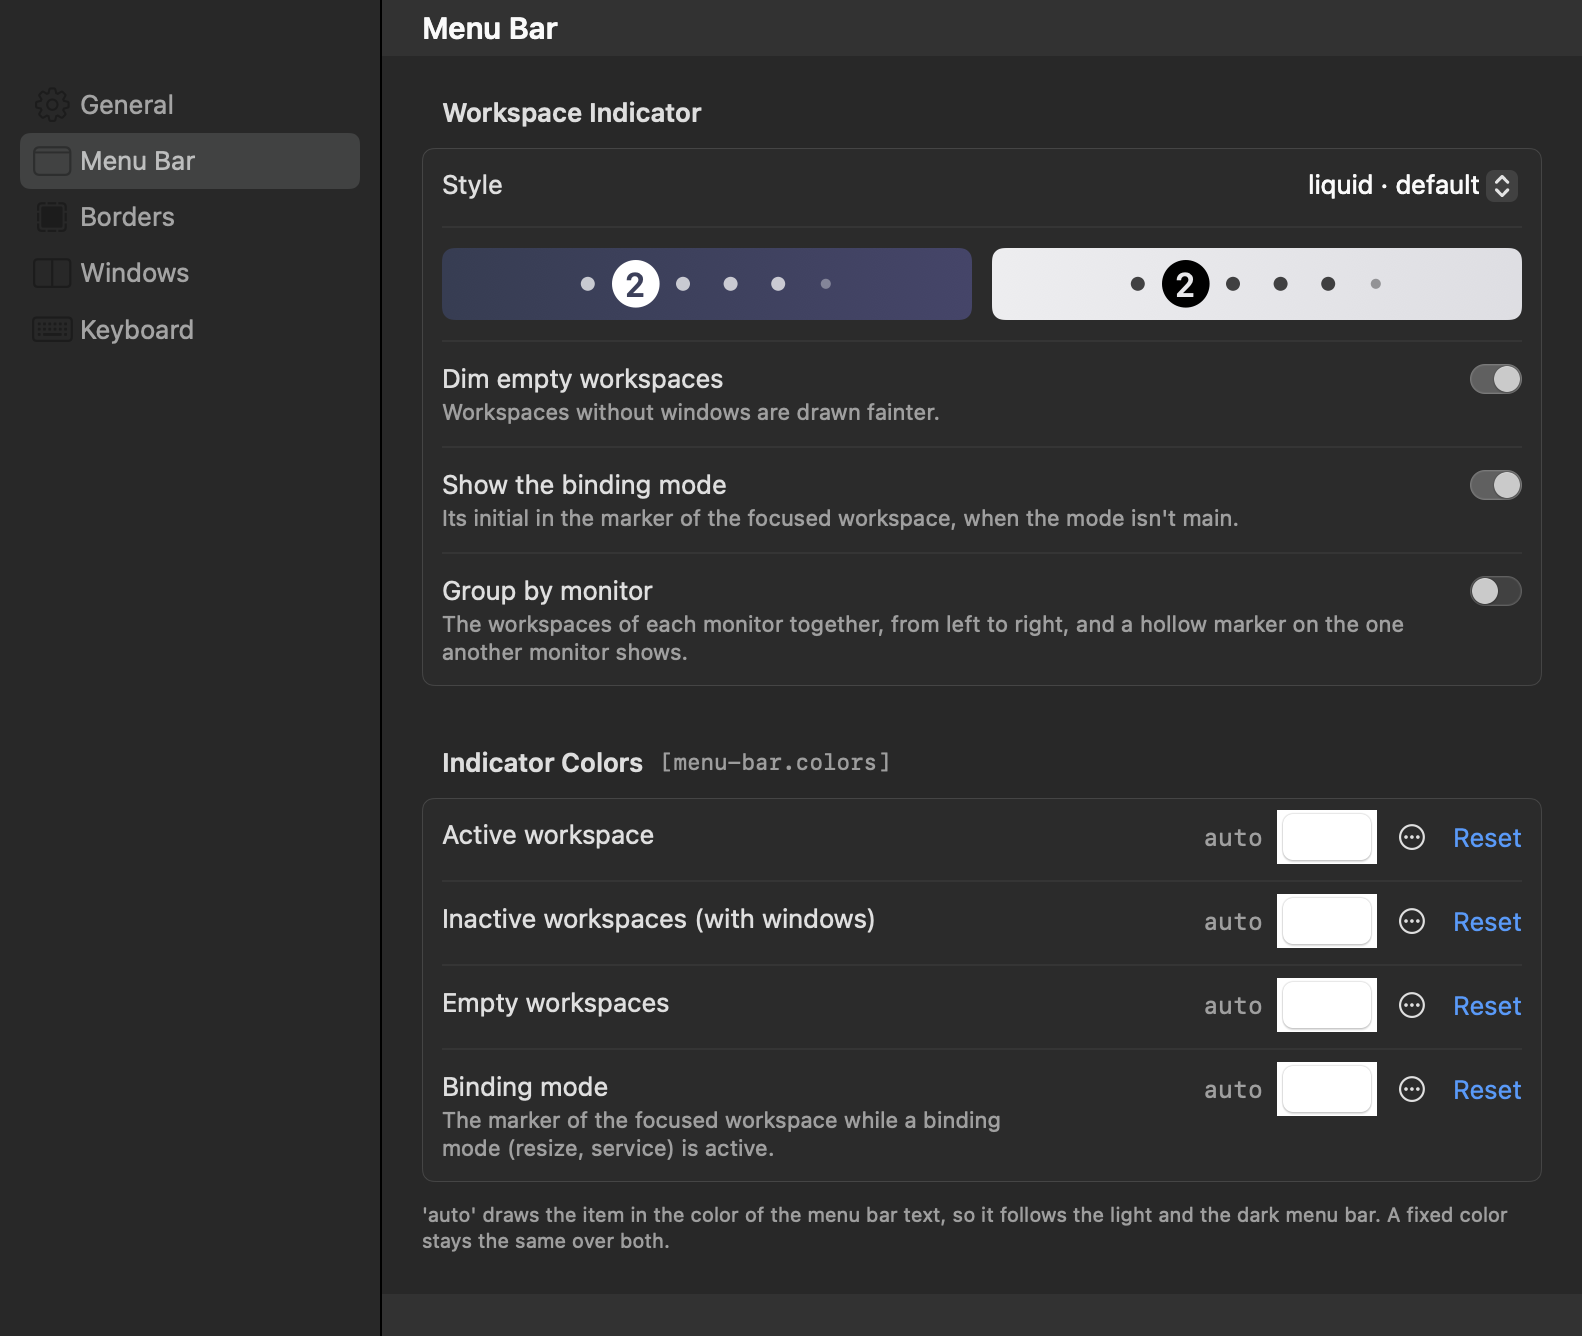
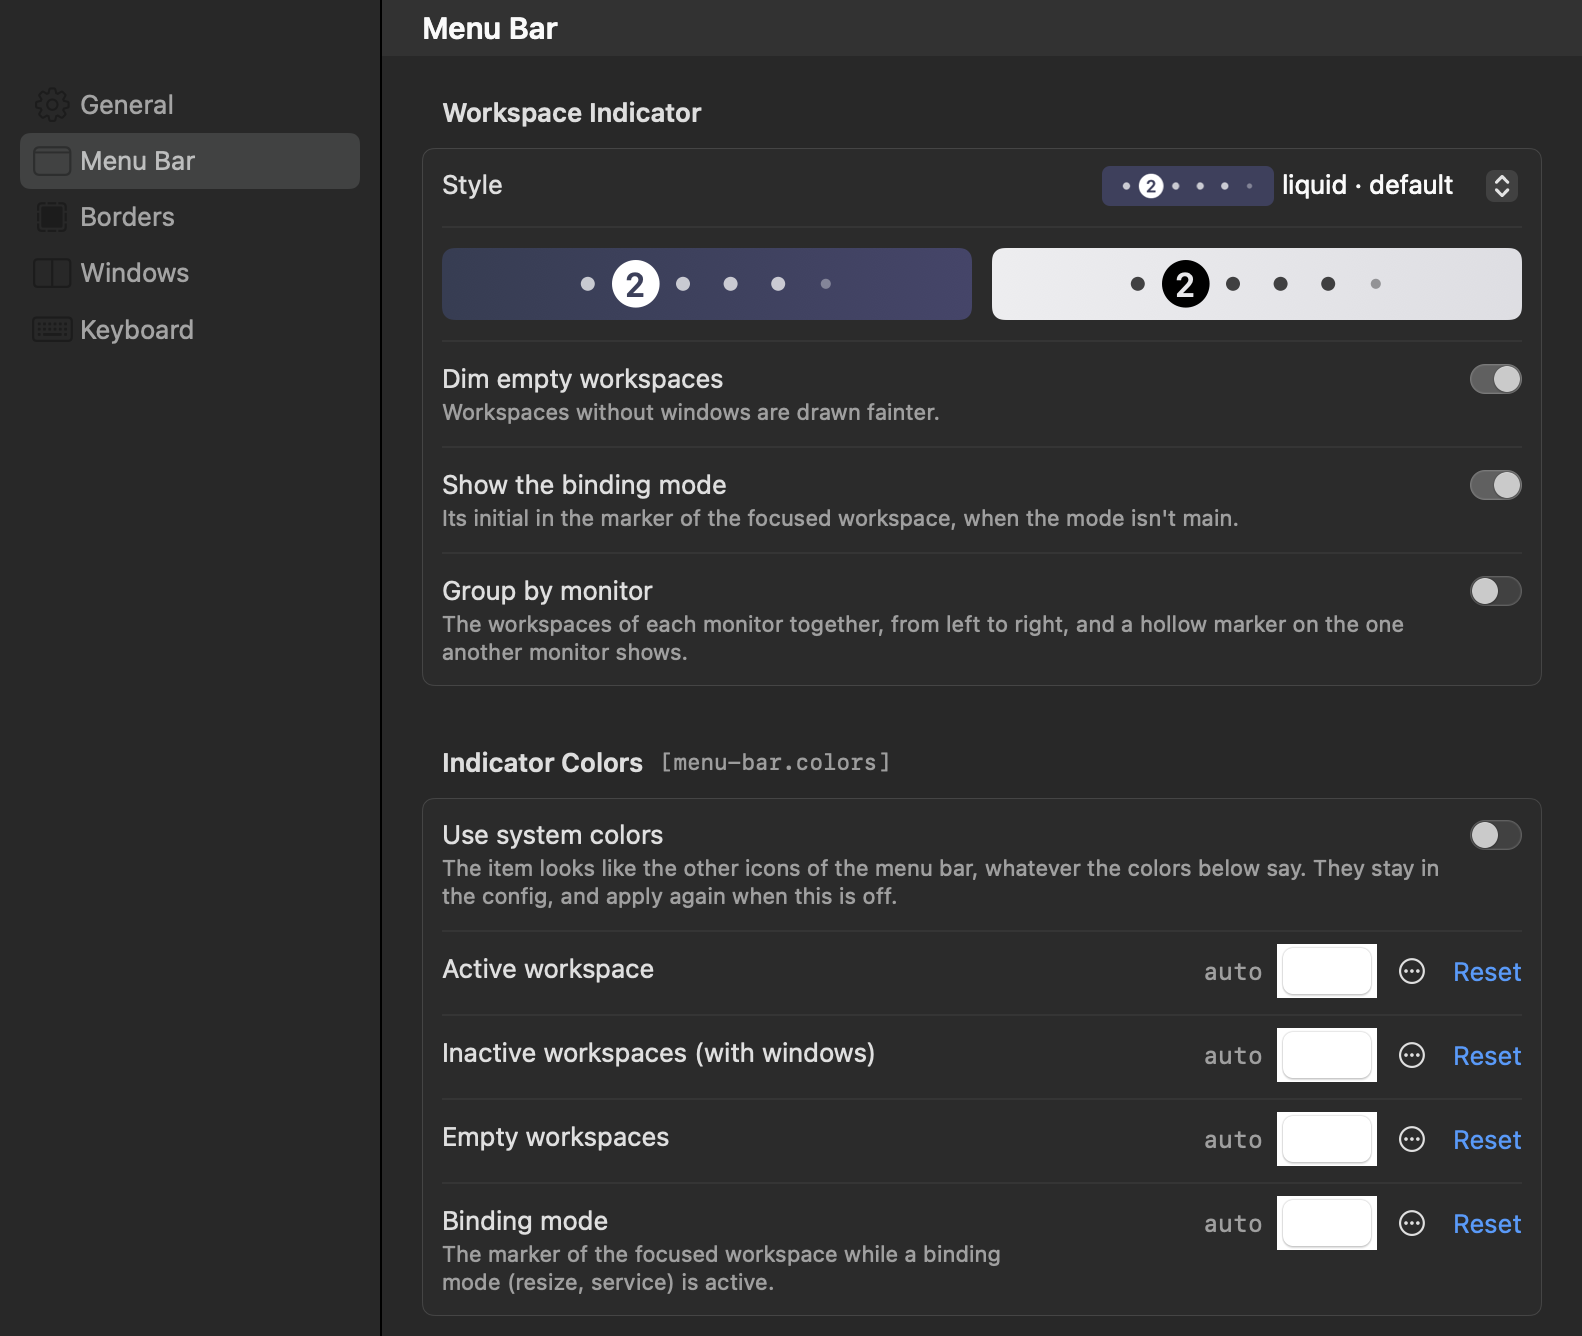
Theme pop-up with thumbnails, system colors for the item, and the modes on cmd-alt-shift
Settings > Menu Bar picks the style in a pop-up whose items show each theme as Inlay
draws it, over a small menu bar and with the colors and the options of the item, next
to its name. The closed button shows the chosen one the same way.

[menu-bar] system-colors = true (Use system colors in Settings) draws the item like the
other icons of the menu bar, whatever theme is in use: a template image in the color of
the menu bar text, also in a binding mode. [menu-bar.colors] is left as it is, so the
colors apply again when it is off; the color rows of Settings are disabled meanwhile.

The shipped config enters and leaves the service and resize modes with cmd-alt-shift-s
and cmd-alt-shift-r, so that cmd-alt-ctrl is for going to a workspace and swapping.

Changed region(s): [[0.2788, 0.5831, 0.9602, 0.982], [0.6814, 0.1228, 0.9292, 0.1534]]

diff --git a/Sources/AppBundle/settings/SettingsViews.swift b/Sources/AppBundle/settings/SettingsViews.swift
@@ -745,9 +745,61 @@ private func menuBarBackground(_ isDarkBar: Bool) -> LinearGradient {
     return LinearGradient(colors: colors, startPoint: .leading, endPoint: .trailing)
 }
 
-// MARK: - Appearance
+/// The style of the indicator: a pop-up button whose items show each theme as Inlay draws it, over a small menu bar,
+/// next to its name. The closed button shows the chosen one the same way. The thumbnails take the colors and the
+/// options of the item
+private struct MenuBarThemePopUp: NSViewRepresentable {
+    let theme: MenuBarTheme
+    let config: MenuBarConfig
+    let select: (MenuBarTheme) -> Void
 
-/// The look of the item and of the borders: the style of the workspace indicator, and every color on its own
+    func makeCoordinator() -> Coordinator { Coordinator() }
+
+    func makeNSView(context: Context) -> NSPopUpButton {
+        let button = NSPopUpButton(frame: .zero, pullsDown: false)
+        button.target = context.coordinator
+        button.action = #selector(Coordinator.picked(_:))
+        button.imagePosition = .imageLeading
+        button.setAccessibilityLabel(Strings.Settings.style)
+        return button
+    }
+
+    func updateNSView(_ button: NSPopUpButton, context: Context) {
+        context.coordinator.select = select
+        let isDarkBar = button.effectiveAppearance.bestMatch(from: [.darkAqua, .aqua]) == .darkAqua
+        // The thumbnails only depend on the rest of the item and on the appearance: made again when one changes
+        let thumbnails = Coordinator.Thumbnails(config: config.copy(\.theme, MenuBarConfig().theme), isDarkBar: isDarkBar)
+        if context.coordinator.thumbnails != thumbnails {
+            context.coordinator.thumbnails = thumbnails
+            button.removeAllItems()
+            for theme in MenuBarTheme.allCases {
+                let title = theme == MenuBarConfig().theme ? "\(theme.rawValue) · \(Strings.Settings.defaultValue)" : theme.rawValue
+                button.addItem(withTitle: title)
+                button.lastItem?.image = MenuBarSamples.thumbnail(config.copy(\.theme, theme), isDarkBar: isDarkBar)
+            }
+        }
+        button.selectItem(at: MenuBarTheme.allCases.firstIndex(of: theme) ?? 0)
+    }
+
+    @MainActor
+    final class Coordinator: NSObject {
+        struct Thumbnails: Equatable {
+            var config: MenuBarConfig
+            var isDarkBar: Bool
+        }
+
+        var select: ((MenuBarTheme) -> Void)?
+        var thumbnails: Thumbnails?
+
+        @objc func picked(_ sender: NSPopUpButton) {
+            guard let theme = MenuBarTheme.allCases.getOrNil(atIndex: sender.indexOfSelectedItem) else { return }
+            select?(theme)
+        }
+    }
+}
+
+// MARK: - Menu bar
+
 /// The menu bar item: its theme, its options and its colors
 struct MenuBarSettingsView: View {
     let model: SettingsModel
@@ -757,13 +809,8 @@ struct MenuBarSettingsView: View {
             ErrorBanner(model: model)
             Section {
                 SettingsRow(model: model, title: Strings.Settings.style, key: .menuBarTheme) {
-                    Picker("", selection: Binding(get: { model.menuBarTheme }, set: { model.setTheme($0) })) {
-                        ForEach(MenuBarTheme.allCases, id: \.self) { theme in
-                            Text(theme == MenuBarConfig().theme ? "\(theme.rawValue) · \(Strings.Settings.defaultValue)" : theme.rawValue).tag(theme)
-                        }
-                    }
-                    .labelsHidden()
-                    .fixedSize()
+                    MenuBarThemePopUp(theme: model.menuBarTheme, config: model.menuBarConfig) { model.setTheme($0) }
+                        .fixedSize()
                 }
                 // The item as Inlay draws it, with the colors below: over a dark and over a light menu bar
                 HStack(spacing: 10) {
@@ -802,10 +849,15 @@ struct MenuBarSettingsView: View {
                 }
             }
             Section {
-                ColorRow(model: model, title: Strings.Settings.activeWorkspaceColor, key: .menuBarFocused, allowsAuto: true)
-                ColorRow(model: model, title: Strings.Settings.inactiveWorkspaceColor, key: .menuBarOccupied, allowsAuto: true)
-                ColorRow(model: model, title: Strings.Settings.emptyWorkspaceColor, key: .menuBarEmpty, allowsAuto: true)
-                ColorRow(model: model, title: Strings.Settings.accent, detail: Strings.Settings.accentDetail, key: .menuBarAccent, allowsAuto: true)
+                ToggleRow(model: model, title: Strings.Settings.systemColors, detail: Strings.Settings.systemColorsDetail, key: .menuBarSystemColors)
+                // Overridden while the item takes the colors of the menu bar, but kept: they apply again when it's off
+                Group {
+                    ColorRow(model: model, title: Strings.Settings.activeWorkspaceColor, key: .menuBarFocused, allowsAuto: true)
+                    ColorRow(model: model, title: Strings.Settings.inactiveWorkspaceColor, key: .menuBarOccupied, allowsAuto: true)
+                    ColorRow(model: model, title: Strings.Settings.emptyWorkspaceColor, key: .menuBarEmpty, allowsAuto: true)
+                    ColorRow(model: model, title: Strings.Settings.accent, detail: Strings.Settings.accentDetail, key: .menuBarAccent, allowsAuto: true)
+                }
+                .disabled(model.bool(.menuBarSystemColors))
             } header: {
                 tableHeader(Strings.Settings.indicatorColors, SettingsKey.menuBarFocused)
             } footer: {

diff --git a/Sources/AppBundle/config/parseMenuBar.swift b/Sources/AppBundle/config/parseMenuBar.swift
@@ -7,6 +7,9 @@ struct MenuBarConfig: ConvenienceMutable, Equatable, Sendable {
     var dimEmptyWorkspaces: Bool = true
     var showMode: Bool = true
     var colors: MenuBarColors = MenuBarColors()
+    /// The item takes the colors of the other icons of the menu bar, whatever [menu-bar.colors] says: the colors stay
+    /// in the config, and they apply again when this is off
+    var systemColors: Bool = false
     /// The workspaces grouped by the monitor they are on, and a hollow marker on the one that another monitor shows
     var perMonitor: Bool = false
     /// [menu-bar.labels]. Workspace -> the name that the 'labels' theme shows in the focused workspace. Only that theme uses it
@@ -51,6 +54,12 @@ enum MenuBarTheme: String, CaseIterable, Equatable, Sendable {
     case capsule
 }
 
+extension MenuBarConfig {
+    /// The colors the item is drawn with: all 'auto' with 'system-colors', so that macOS colors it like the other
+    /// icons of the menu bar. See: MenuBarPalette.isTemplate
+    var effectiveColors: MenuBarColors { systemColors ? MenuBarColors() : colors }
+}
+
 /// The theme that showed the icons of the apps in the item. Inlay doesn't have it anymore
 private let obsoleteChipsIconsTheme = "chips-icons"
 
@@ -73,6 +82,7 @@ let menuBarParserTable: [String: any ParserProtocol<MenuBarConfig>] = [
     "dim-empty-workspaces": Parser(\.dimEmptyWorkspaces, parseBool),
     "show-mode": Parser(\.showMode, parseBool),
     "colors": Parser(\.colors, parseMenuBarColors),
+    "system-colors": Parser(\.systemColors, parseBool),
     "per-monitor": Parser(\.perMonitor, parseBool),
     "labels": Parser(\.labels, parseWorkspaceStrings),
     "symbols": Parser(\.symbols, parseWorkspaceStrings),

diff --git a/Tests/InlayTests/menubar/MenuBarLayoutTest.swift b/Tests/InlayTests/menubar/MenuBarLayoutTest.swift
@@ -665,6 +665,26 @@ extension InlayTests {
             assertEquals((44 ..< 68).allSatisfy { alpha(bitmap, $0, 22) == 255 }, true)
         }
 
+        /// 'system-colors': the colors of [menu-bar.colors] are kept, but the item is a template image, like the other
+        /// icons of the menu bar, also while it shows a binding mode
+        @Test func testSystemColors() throws {
+            let colors = MenuBarColors(
+                accent: .rgba(Rgba(red: 0, green: 1, blue: 0)),
+                focused: .rgba(Rgba(red: 1, green: 0, blue: 0)),
+                occupied: .systemAccent,
+                empty: .rgba(Rgba(red: 0, green: 0, blue: 1)),
+            )
+            let config = MenuBarConfig(theme: .capsule, showMode: true, colors: colors, systemColors: true)
+            assertEquals(config.colors, colors)
+            assertEquals(config.effectiveColors, MenuBarColors())
+            assertEquals(MenuBarConfig(colors: colors).effectiveColors, colors)
+            for needsColor in [false, true] {
+                let palette = MenuBarPalette.resolve(config, style: .capsule, isDarkBar: true, systemAccent: .white, needsColor: needsColor)
+                assertEquals(palette.isTemplate, true)
+                assertEquals(palette, MenuBarPalette.resolve(MenuBarConfig(theme: .capsule, showMode: true), style: .capsule, isDarkBar: true, systemAccent: .white, needsColor: needsColor))
+            }
+        }
+
         /// The initial of the binding mode is cut out of the chip of the focused workspace, where its name was
         @Test func testModeInTheChip() throws {
             var snapshot = MenuBarSamples.snapshot

diff --git a/Sources/AppBundle/settings/SettingsKeys.swift b/Sources/AppBundle/settings/SettingsKeys.swift
@@ -43,6 +43,7 @@ extension SettingsKey {
     static let menuBarDimEmpty = SettingsKey(["menu-bar"], "dim-empty-workspaces", default: .bool(true))
     static let menuBarShowMode = SettingsKey(["menu-bar"], "show-mode", default: .bool(true))
     static let menuBarPerMonitor = SettingsKey(["menu-bar"], "per-monitor", default: .bool(false))
+    static let menuBarSystemColors = SettingsKey(["menu-bar"], "system-colors", default: .bool(false))
     static let menuBarAccent = SettingsKey(["menu-bar", "colors"], "accent", default: .string(ConfigColor.autoLiteral))
     static let menuBarFocused = SettingsKey(["menu-bar", "colors"], "focused", default: .string(ConfigColor.autoLiteral))
     static let menuBarOccupied = SettingsKey(["menu-bar", "colors"], "occupied", default: .string(ConfigColor.autoLiteral))
@@ -85,7 +86,7 @@ extension SettingsKey {
         startAtLogin, autoReloadConfig, persistentWorkspaces,
         newWindowPlacement, splitRatio, startupLayout, splitTarget, minWindowSize,
         menuBarEnabled, menuBarTheme, menuBarDimEmpty, menuBarShowMode, menuBarPerMonitor,
-        menuBarAccent, menuBarFocused, menuBarOccupied, menuBarEmpty,
+        menuBarSystemColors, menuBarAccent, menuBarFocused, menuBarOccupied, menuBarEmpty,
         animationsEnabled, animationsDuration, animationsWorkspaceSwitch,
         bordersEnabled, bordersWidth, bordersCornerRadius, bordersSquareCorners, bordersActiveColor, bordersInactiveColor,
         bordersFloatingColor, bordersGlow, bordersGlowRadius,

diff --git a/Sources/AppBundle/menubar/MenuBarSamples.swift b/Sources/AppBundle/menubar/MenuBarSamples.swift
@@ -65,6 +65,24 @@ enum MenuBarSamples {
     }
 }
 
+extension MenuBarSamples {
+    /// The item over a small menu bar: the thumbnail of a theme in the pop-up of the settings
+    @MainActor
+    static func thumbnail(_ config: MenuBarConfig, isDarkBar: Bool, height: CGFloat = 20) -> NSImage? {
+        guard let item = image(withSampleLabels(config), isDarkBar: isDarkBar, scale: 2) else { return nil }
+        let zoom = (height - 4) / item.size.height
+        let itemSize = CGSize(width: item.size.width * zoom, height: item.size.height * zoom)
+        let padding: CGFloat = 6
+        let bar = isDarkBar ? NSColor(srgbRed: 0.24, green: 0.25, blue: 0.37, alpha: 1) : NSColor(srgbRed: 0.90, green: 0.90, blue: 0.91, alpha: 1)
+        return NSImage(size: CGSize(width: itemSize.width + 2 * padding, height: height), flipped: false) { rect in
+            bar.setFill()
+            NSBezierPath(roundedRect: rect, xRadius: 4, yRadius: 4).fill()
+            item.draw(in: CGRect(x: padding, y: (rect.height - itemSize.height) / 2, width: itemSize.width, height: itemSize.height))
+            return true
+        }
+    }
+}
+
 /// `Inlay --render-menu-bar <dir>`: draws the menu bar item off screen, for every theme, in a dark and in a light menu bar,
 /// with the default colors and with custom ones, and the menu that it opens. A way to look at them without running Inlay
 ///

diff --git a/Tests/InlayTests/settings/SettingsModelTest.swift b/Tests/InlayTests/settings/SettingsModelTest.swift
@@ -305,6 +305,19 @@ extension InlayTests {
             assertEquals(text, "menu-bar.theme = 'chips'\nmenu-bar.show-mode = false\ntiling = { new-window-placement = 'dwindle' }\n[mode.main.binding]\n")
         }
 
+        /// The switch only writes 'system-colors': the colors stay in the file, and apply again when it's off
+        @Test func testSystemColors() throws {
+            let model = try model("[menu-bar]\n    theme = 'capsule'\n[menu-bar.colors]\n    focused = '#D19A66'\n[mode.main.binding]\n")
+            assertEquals(model.bool(.menuBarSystemColors), false)
+            assertEquals(model.menuBarConfig.effectiveColors.focused, .rgba(Rgba(hex: "#D19A66").orDie()))
+            model.set(.menuBarSystemColors, .bool(true))
+            assertEquals(text, "[menu-bar]\n    theme = 'capsule'\n    system-colors = true\n[menu-bar.colors]\n    focused = '#D19A66'\n[mode.main.binding]\n")
+            assertEquals(model.menuBarConfig.effectiveColors, MenuBarColors())
+            assertEquals(model.string(.menuBarFocused), "#D19A66")
+            model.set(.menuBarSystemColors, .bool(false))
+            assertEquals(model.menuBarConfig.effectiveColors.focused, .rgba(Rgba(hex: "#D19A66").orDie()))
+        }
+
         @Test func testGaps() throws {
             let model = try model(
                 """

diff --git a/Tests/InlayTests/config/MenuBarConfigTest.swift b/Tests/InlayTests/config/MenuBarConfigTest.swift
@@ -15,8 +15,26 @@ extension InlayTests {
             assertEquals(menuBar.dimEmptyWorkspaces, true)
             assertEquals(menuBar.showMode, true)
             assertEquals(menuBar.colors, MenuBarColors(accent: .auto, focused: .auto, occupied: .auto, empty: .auto))
+            assertEquals(menuBar.systemColors, false)
             // The built-in config agrees with the defaults
             assertEquals(defaultConfig.menuBar, MenuBarConfig())
+        }
+
+        @Test func testSystemColors() {
+            let result = parseConfig(
+                """
+                config-version = 2
+                [menu-bar]
+                    system-colors = true
+                [menu-bar.colors]
+                    focused = '#D19A66'
+                """,
+            )
+            assertEquals(result.errors, [])
+            assertEquals(result.config.menuBar.systemColors, true)
+            // The colors are kept for when it's off again
+            assertEquals(result.config.menuBar.colors.focused, .rgba(Rgba(hex: "#D19A66").orDie()))
+            assertEquals(result.config.menuBar.effectiveColors, MenuBarColors())
         }
 
         @Test func testParse() {

diff --git a/Tests/InlayTests/config/ShippedConfigsTest.swift b/Tests/InlayTests/config/ShippedConfigsTest.swift
@@ -81,10 +81,10 @@ extension InlayTests {
             assertTrue(runs("cmd-alt-shift-d", "arrange-workspace dwindle"))
             assertTrue(runs("cmd-alt-shift-f", "fullscreen off; layout floating tiling"))
             assertTrue(runs("cmd-alt-shift-enter", "fullscreen"))
-            assertTrue(runs("cmd-alt-ctrl-s", "mode service"))
-            assertTrue(runs("cmd-alt-ctrl-r", "mode resize"))
-            assertTrue(runs("cmd-alt-ctrl-s", "mode main", mode: "service"))
-            assertTrue(runs("cmd-alt-ctrl-r", "mode main", mode: "resize"))
+            assertTrue(runs("cmd-alt-shift-s", "mode service"))
+            assertTrue(runs("cmd-alt-shift-r", "mode resize"))
+            assertTrue(runs("cmd-alt-shift-s", "mode main", mode: "service"))
+            assertTrue(runs("cmd-alt-shift-r", "mode main", mode: "resize"))
             assertTrue(runs("w", "run-callback on-window-detected --for-every-window; mode main", mode: "service"))
         }
 

diff --git a/Sources/AppBundle/ui/Strings.swift b/Sources/AppBundle/ui/Strings.swift
@@ -87,6 +87,8 @@ enum Strings {
         static let borderColors = "Border Colors"
         static let indicatorColors = "Indicator Colors"
         static let indicatorColorsFooter = "'auto' draws the item in the color of the menu bar text, so it follows the light and the dark menu bar. A fixed color stays the same over both."
+        static let systemColors = "Use system colors"
+        static let systemColorsDetail = "The item looks like the other icons of the menu bar, whatever the colors below say. They stay in the config, and apply again when this is off."
         static let activeWorkspaceColor = "Active workspace"
         static let inactiveWorkspaceColor = "Inactive workspaces (with windows)"
         static let emptyWorkspaceColor = "Empty workspaces"

diff --git a/Sources/AppBundle/menubar/MenuBarController.swift b/Sources/AppBundle/menubar/MenuBarController.swift
@@ -109,7 +109,7 @@ final class MenuBarController: NSObject {
         // whenever the layout draws the initial of the mode (MenuBarLayout.needsColor)
         let mayShowMode = state.config.showMode && state.snapshot.nonMainMode != nil
         // Fixed colors: the item follows the menu bar by hand
-        let followsBar = !MenuBarPalette.isTemplate(state.config.colors, needsColor: mayShowMode)
+        let followsBar = !MenuBarPalette.isTemplate(state.config.effectiveColors, needsColor: mayShowMode)
         return MenuBarDrawKey(
             state: state,
             transition: transition,

diff --git a/Sources/AppBundle/settings/SettingsModel.swift b/Sources/AppBundle/settings/SettingsModel.swift
@@ -169,6 +169,7 @@ final class SettingsModel {
                 occupied: color(.menuBarOccupied),
                 empty: color(.menuBarEmpty),
             ),
+            systemColors: bool(.menuBarSystemColors),
             perMonitor: bool(.menuBarPerMonitor),
             labels: config.menuBar.labels.merging(pendingStrings(SettingsKey.menuBarLabel)) { $1 }.filter { !$0.value.isEmpty },
             symbols: config.menuBar.symbols.merging(pendingStrings(SettingsKey.menuBarSymbol)) { $1 }.filter { !$0.value.isEmpty },

diff --git a/Sources/AppBundle/menubar/MenuBarPalette.swift b/Sources/AppBundle/menubar/MenuBarPalette.swift
@@ -31,7 +31,7 @@ struct MenuBarPalette: Equatable, Sendable {
         allowsTemplate: Bool = true,
     ) -> MenuBarPalette {
         typealias M = MenuBarMetrics
-        let colors = config.colors
+        let colors = config.effectiveColors
         // The marker of a binding mode only has a color of its own if 'accent' gives it one
         let isTemplate = allowsTemplate && Self.isTemplate(colors, needsColor: needsColor)
         // A template image is drawn in black: only its alpha channel matters
